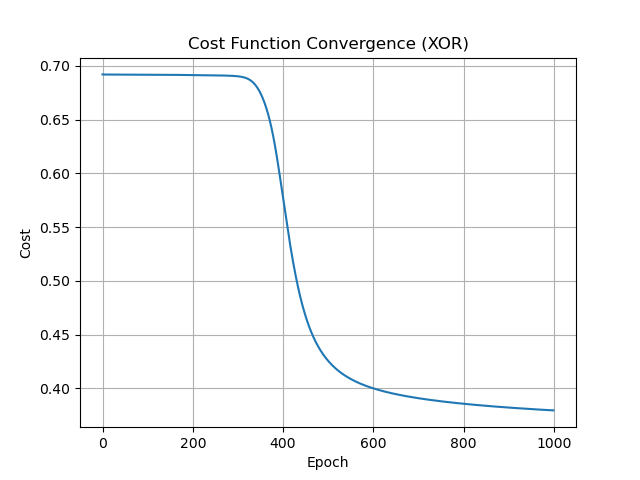
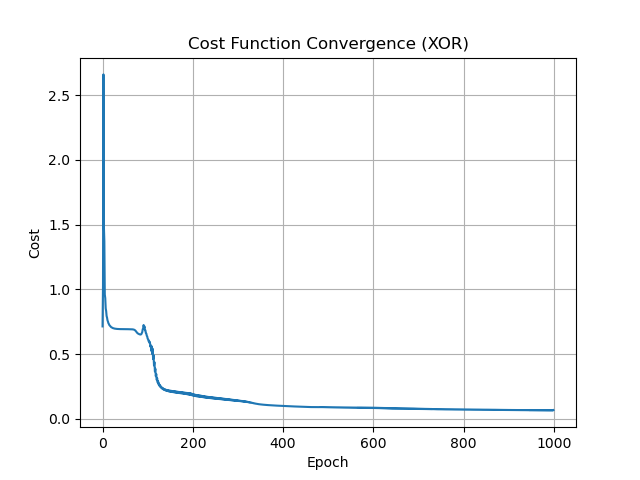
Lab06

diff --git a/LAB06_DL/neural_network.py b/LAB06_DL/neural_network.py
@@ -93,7 +93,7 @@ class NeuralNetwork:
 
         m = inputs.shape[1]
 
-        delta[2] = (a[2] - expected_outputs)*sigmoid_derivative(z[2])
+        delta[2] = (a[2] - expected_outputs)
         weights_gradient[2] = (delta[2]@a[1].T) / m
         biases_gradient[2] = np.array(np.mean(delta[2], axis=1))
         biases_gradient[2] = biases_gradient[2].reshape(biases_gradient[2].shape[0], 1)

diff --git a/LAB06_DL/test_neural_network.py b/LAB06_DL/test_neural_network.py
@@ -51,8 +51,8 @@ plt.xlim([-5.0, 5.0])
 plt.ylim([-5.0, 5.0])
 plt.xlabel('x1')
 plt.ylabel('x2')
-plt.title('Dataset')
-plt.savefig('dataset.' + fig_format, format=fig_format)
+plt.title('Dataset (XOR)')
+plt.savefig('dataset(XOR).' + fig_format, format=fig_format)
 
 
 # Plotting the decision regions of the neural network
